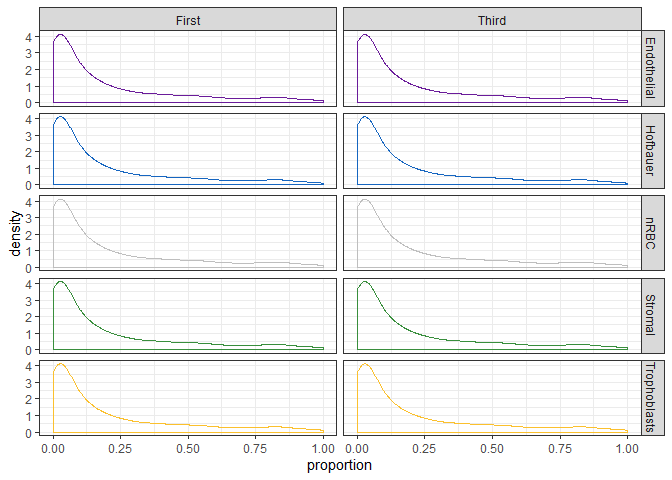
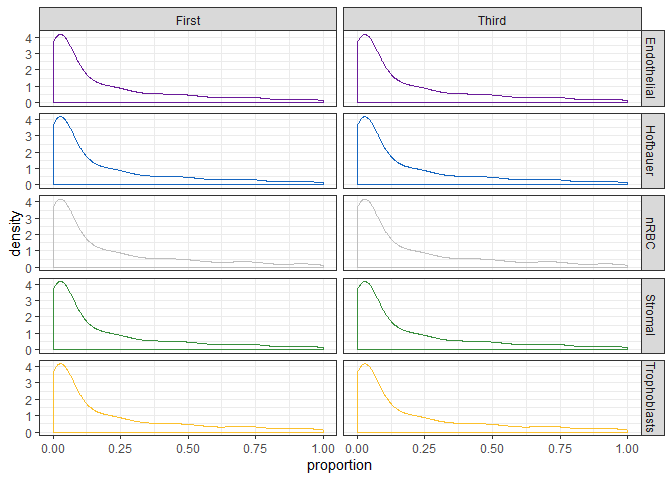
kjnit

diff --git a/R/2_analysis/2_14_deconvolution.md b/R/2_analysis/2_14_deconvolution.md
@@ -11621,10 +11621,10 @@ stats %>%
 ## # A tibble: 4 x 4
 ##   algorithm       rmse   rsq    mae
 ##   <chr>          <dbl> <dbl>  <dbl>
-## 1 epidish (CBS) 0.0457 0.963 0.0266
-## 2 epidish (CP)  0.0457 0.963 0.0274
-## 3 epidish (RPC) 0.0447 0.965 0.0263
-## 4 Houseman (CP) 0.0459 0.963 0.0276
+## 1 epidish (CBS) 0.0458 0.962 0.0264
+## 2 epidish (CP)  0.0461 0.962 0.0274
+## 3 epidish (RPC) 0.0450 0.963 0.0263
+## 4 Houseman (CP) 0.0463 0.962 0.0275
 ```
 
 ```r
@@ -11661,7 +11661,7 @@ epidish_results %>%
 ```
 
 ```
-## Warning: Removed 3644 rows containing non-finite values (stat_density).
+## Warning: Removed 3582 rows containing non-finite values (stat_density).
 ```
 
 ![](2_14_deconvolution_files/figure-html/unnamed-chunk-15-2.png)<!-- -->
@@ -11847,9 +11847,10 @@ epidish_rpc %>%
   filter(Tissue == 'Villi') %>%
   filter(Trimester == 'Third', component !='nRBC') %>%
   ggplot(aes(x = component, y = percent, color = Sex)) +
-  geom_beeswarm(dodge.width = 0.75) +
+  geom_beeswarm(dodge.width = 0.75, cex = 1.5) +
   #geom_jitter(position = position_jitterdodge(dodge.width = 0.75)) +
   scale_y_continuous(labels = function(x)percent(x,accuracy = 1)) +
+  scale_color_manual(values = c('#af8dc3', '#7fbf7b')) +
   theme(panel.grid.minor = element_blank(),
         panel.border = element_blank(),
         axis.line = element_line(),
@@ -11979,11 +11980,17 @@ epidish_rpc %>%
 
 ```r
 # 3rd and 1st trimester reference cpgs
-write_csv(as.data.frame(coefs_combined_third), na = 'NA',
-          path = here('outs', '2_14_deconvolution_reference_cpgs_third.csv'))
+coefs_combined_third %>%
+  as.data.frame() %>%
+  bind_cols(cpg = rownames(.), .) %>%
+  write_csv( na = 'NA',
+             path = here('outs', '2_14_deconvolution_reference_cpgs_third.csv'))
 
-write_csv(as.data.frame(coefs_combined_first), na = 'NA',
-          path = here('outs', '2_14_deconvolution_reference_cpgs_first.csv'))
+coefs_combined_first %>%
+  as.data.frame() %>%
+  bind_cols(cpg = rownames(.), .) %>%
+  write_csv(na = 'NA',
+            path = here('outs', '2_14_deconvolution_reference_cpgs_first.csv'))
 
 # save deconvolution (nrbc included) estimates on villi
 epidish_rpc %>%
